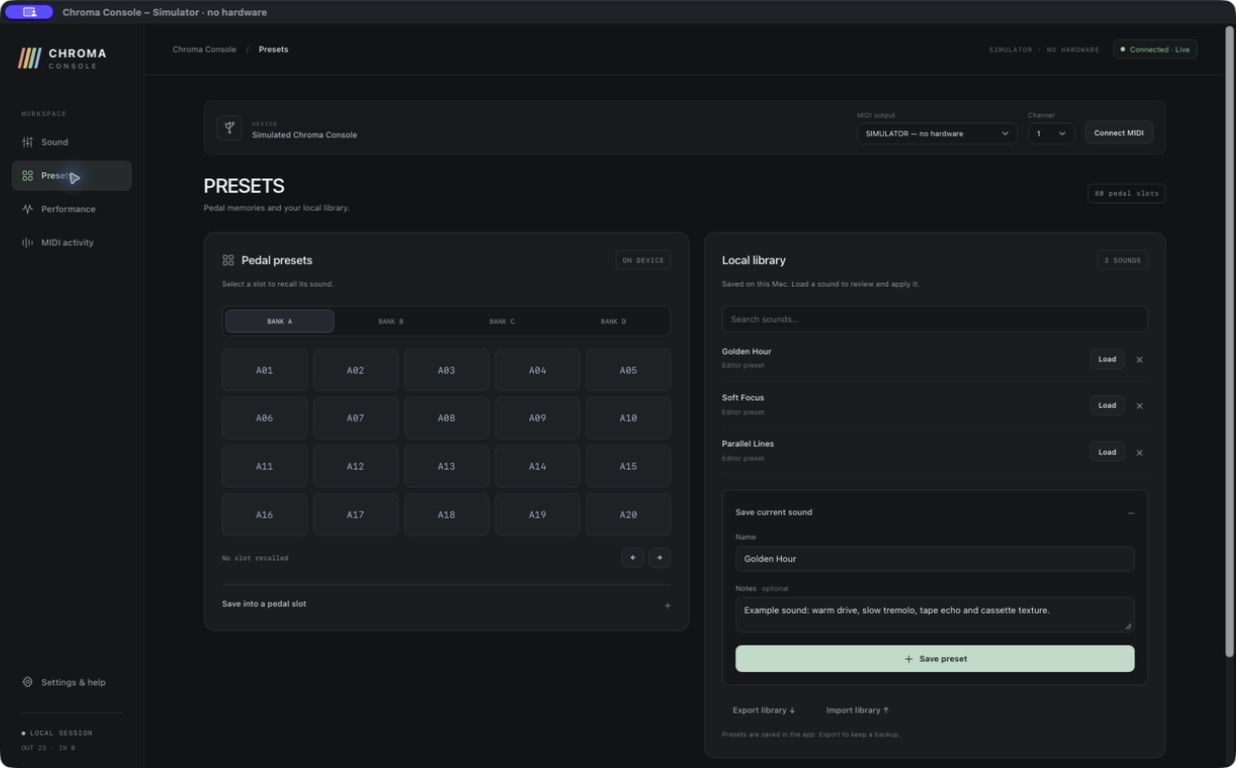
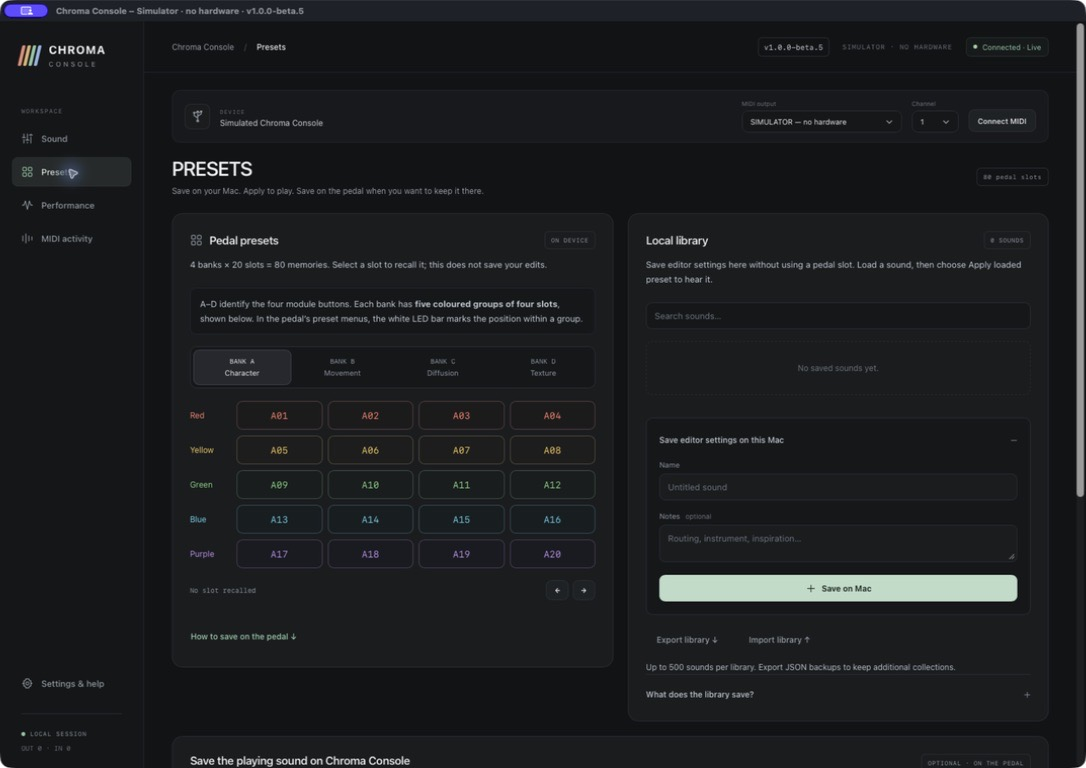
Document preset saving and bank colours with beta.5 screenshots

diff --git a/docs/screenshots/README.md b/docs/screenshots/README.md
@@ -1,10 +1,11 @@
 # README screenshots
 
-Captured from the native macOS app in its isolated simulator for the 1.0.0-beta.3 interface. These are unmodified app-window screenshots with example presets created for documentation. They contain no personal preset library or hardware MIDI traffic.
+Captured from the native macOS app in its isolated simulator for the 1.0.0-beta.3 interface; the preset images were refreshed for 1.0.0-beta.5. These are unmodified app-window screenshots with example presets created for documentation. They contain no personal preset library or hardware MIDI traffic.
 
 - `sound.jpg`: the four effect modules and parameter controls.
 - `output.jpg`: the lower Sound page and Master controls.
-- `presets.jpg`: pedal slots and the example local library.
+- `presets.jpg`: bank colours and the separate local library.
+- `preset-saving.jpg`: step-by-step instructions for saving on the pedal.
 - `performance.jpg`: tempo, Capture and Gesture.
 - `midi-activity.jpg`: simulated control-message history.
 
